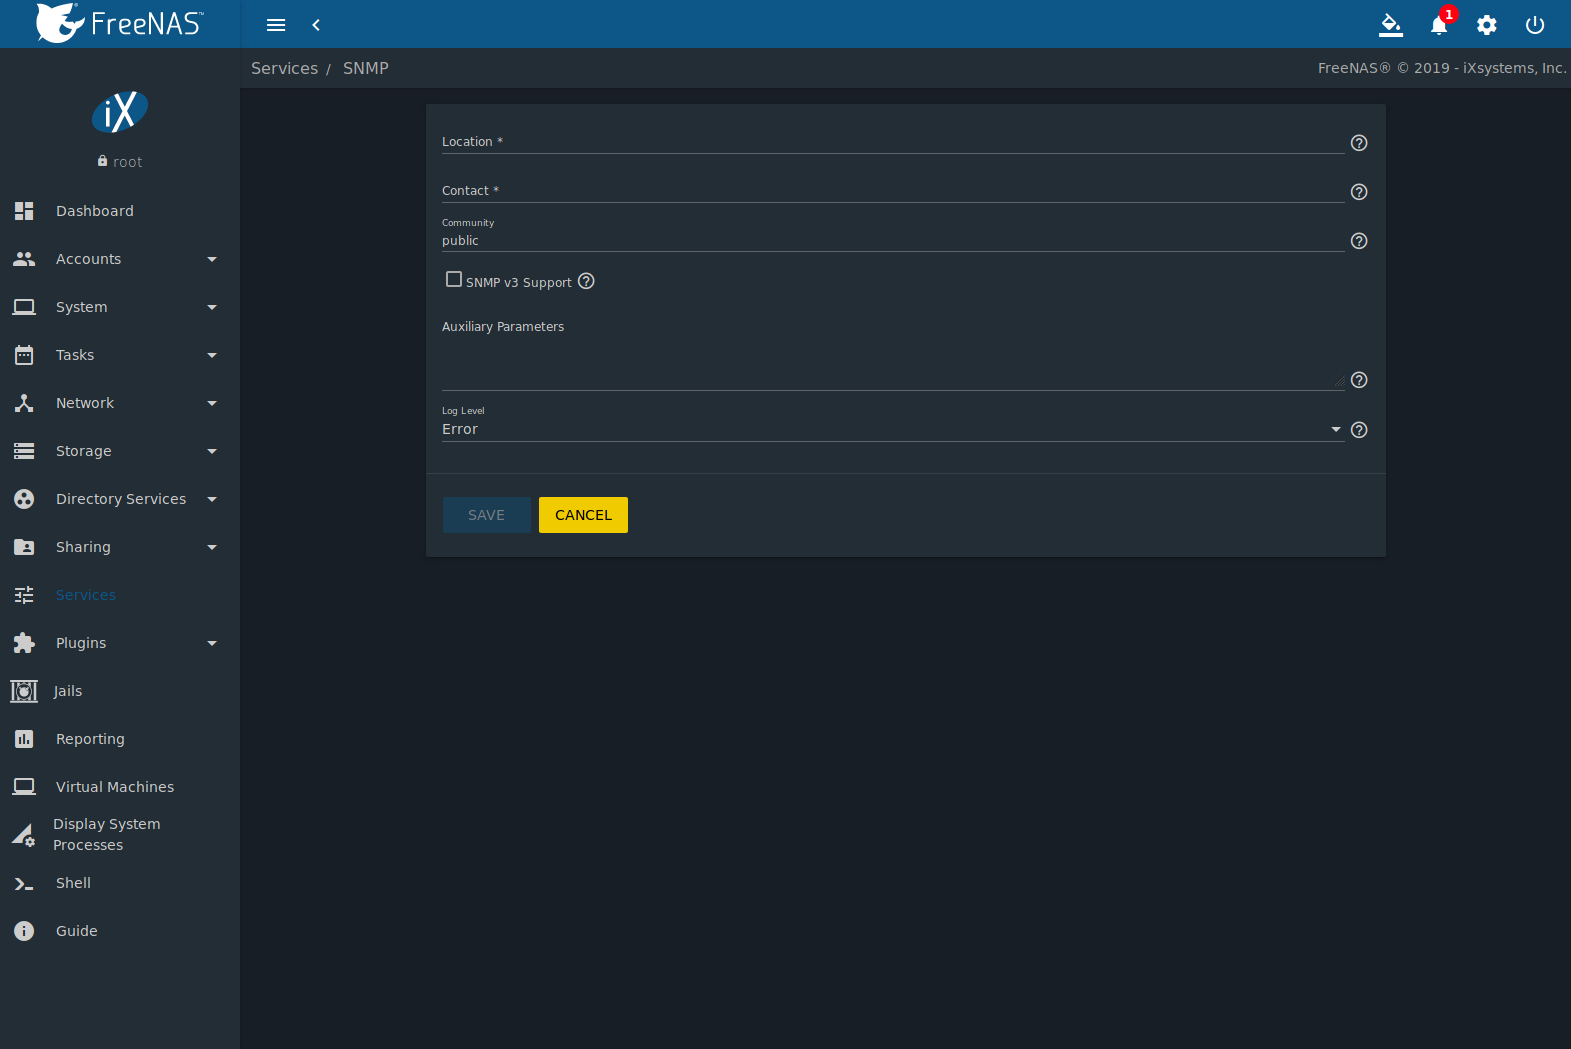
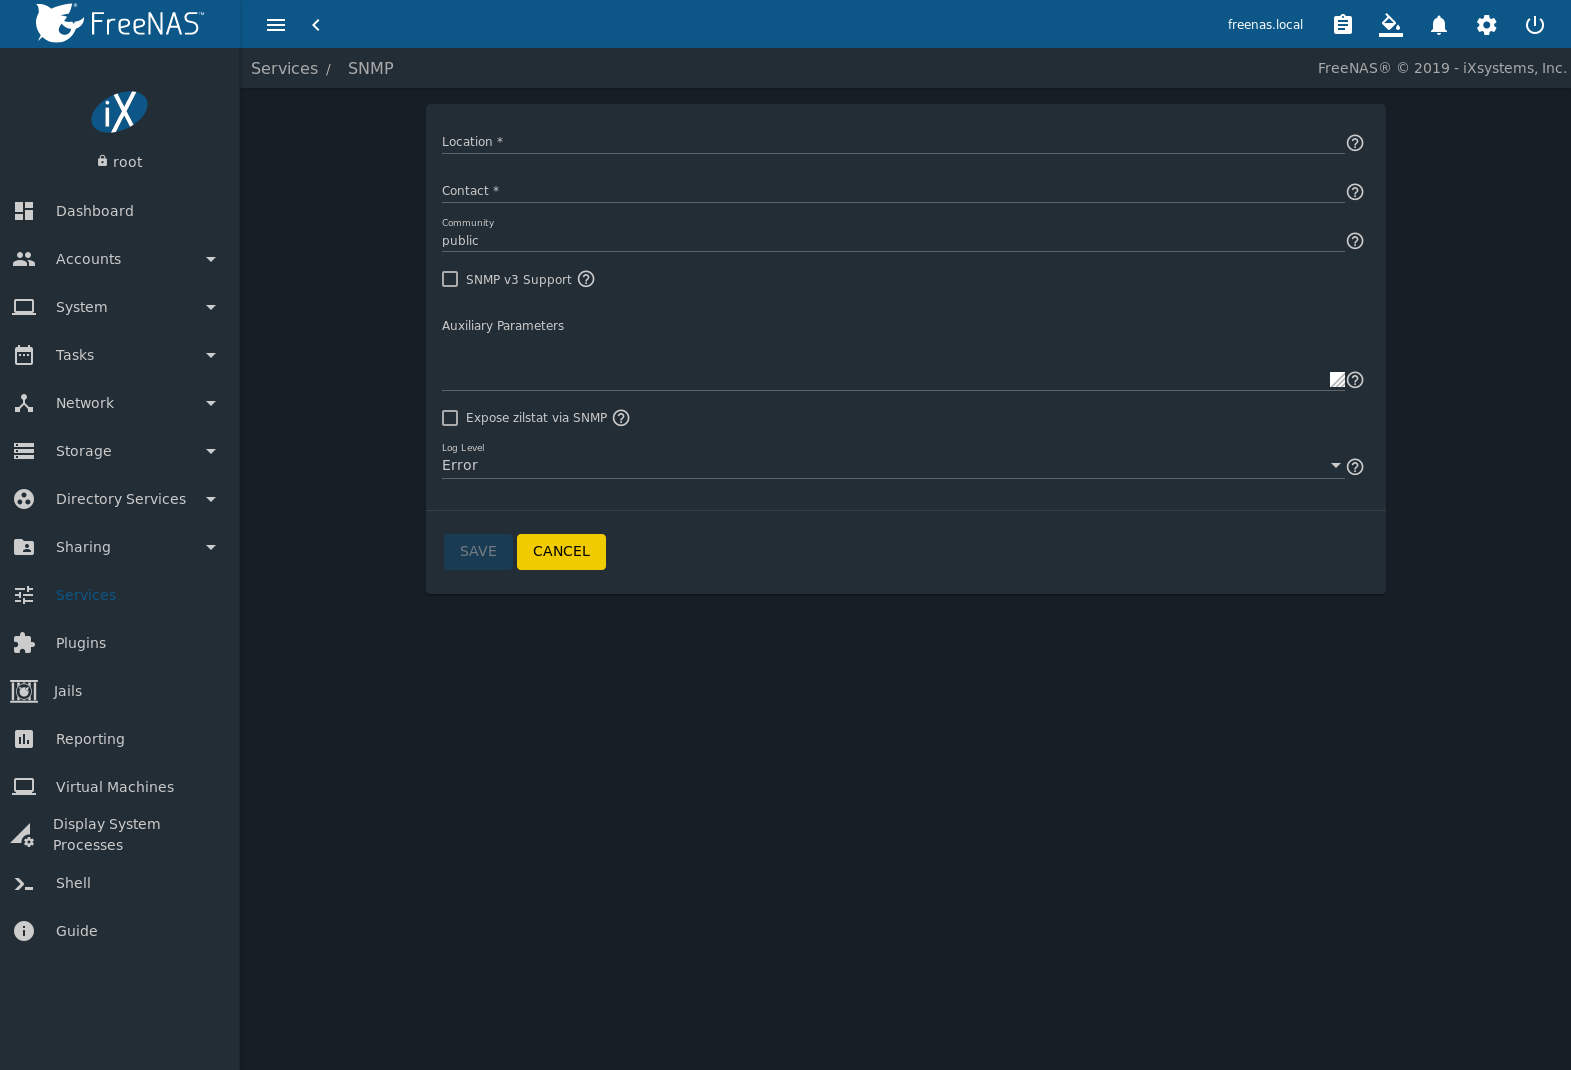
NAS-101505: Document 'Expose zilstat via SNMP` field. Add intro.rst entry for new field. Update related image. Add text entry to 'SNMP Configuration Options' table and synchronize with existing legacy UI text. HTML build test: no issues.

diff --git a/userguide/services.rst b/userguide/services.rst
@@ -1609,6 +1609,9 @@ summarizes the configuration options.
    |                      |                | options. Add one option for each line.                                                           |
    |                      |                |                                                                                                  |
    +----------------------+----------------+--------------------------------------------------------------------------------------------------+
+   | Expose zilstat via   | checkbox       | Gather ZFS Intent Log (ZIL) statistics. Enabling this option slows down pool performance.        |
+   | SNMP                 |                |                                                                                                  |
+   +----------------------+----------------+--------------------------------------------------------------------------------------------------+
    | Log Level            | drop-down menu | Choices range from the least log entries (:guilabel:`Emergency`) to the most (:guilabel:`Debug`) |
    |                      |                |                                                                                                  |
    +----------------------+----------------+--------------------------------------------------------------------------------------------------+

diff --git a/userguide/intro.rst b/userguide/intro.rst
@@ -240,6 +240,9 @@ These screen options have changed:
 * The names *global*, *homes*, and *printers* cannot be used in
   :menuselection:`Sharing --> Windows (SMB) --> Add Windows (SMB) Share`.
 
+* The :guilabel:`Expose zilstat via SNMP` checkbox has been added to
+  :menuselection:`Services --> SNMP`.
+
 * iocage jails can now be restarted from the |web-ui| in
   :menuselection:`Jails -->` |ui-options| :menuselection:`--> Restart`.
 
